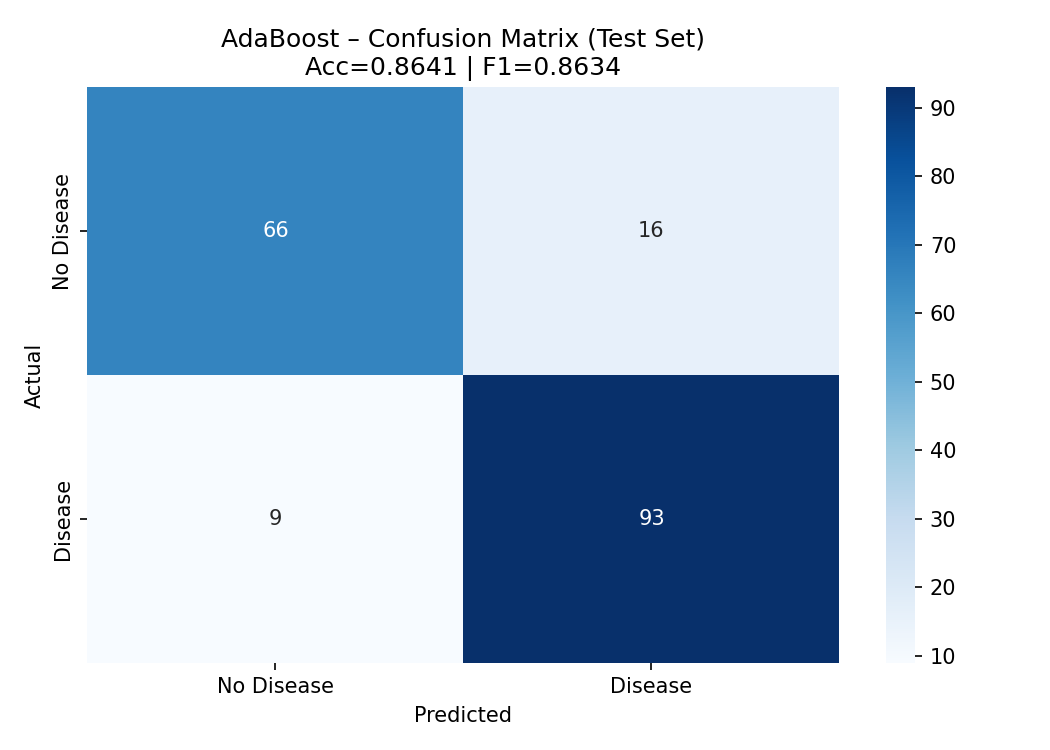
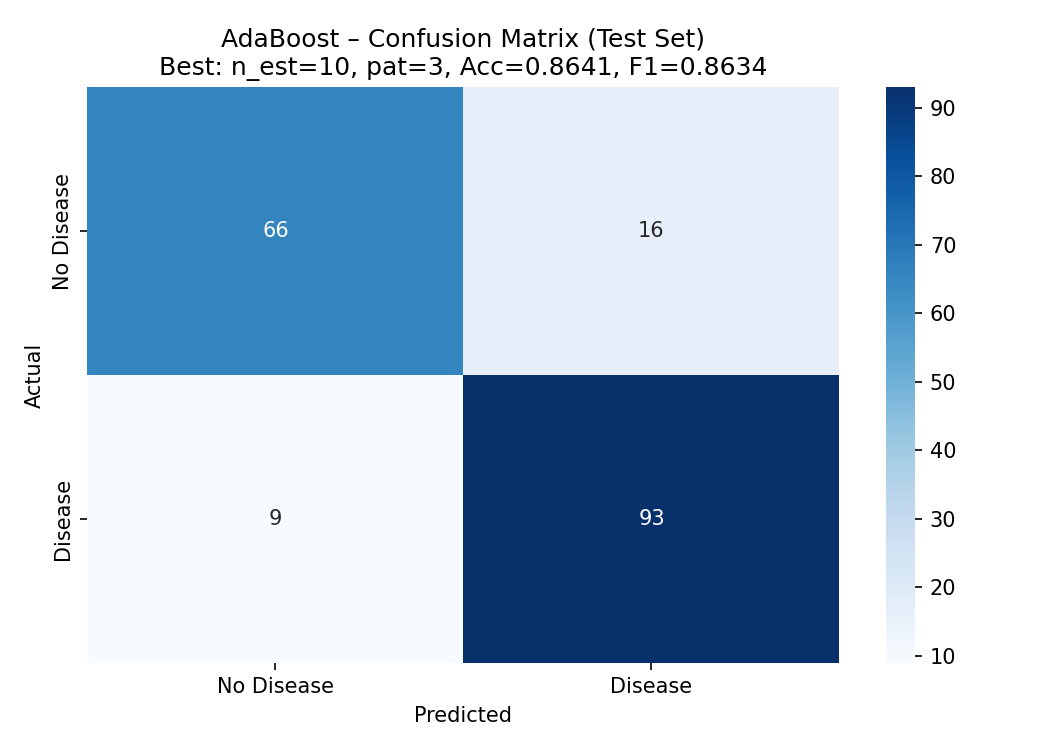
add tunning

Changed region(s): [[0.2438, 0.0613, 0.7314, 0.1227], [0.1524, 0.0613, 0.2133, 0.1227]]

diff --git a/adaBoosting/ADABoosting.py b/adaBoosting/ADABoosting.py
@@ -165,70 +165,125 @@ def evaluate_model(X_data, y_data, weak_learners):
     f1  = f1_score(y_data, y_pred, average='weighted')
     cm  = confusion_matrix(y_data, y_pred)
     return acc, f1, cm
+estimators_list = [10, 20, 30, 40, 50, 60, 70, 80, 90, 100]
+early_stop_patience_list = [3, 5, 7, 10, 15]  # Different early stopping patience values
 
-n_estimators        = 50   # maximum number of boosting rounds 
-early_stop_patience = 5    # stop if val accuracy doesn't improve for this many rounds
-weights = np.ones(len(X_train_scaled), dtype=float) / len(X_train_scaled)
-best_val_acc       = 0.0
-no_improve_count   = 0
-weak_learners      = []      # all accepted stumps so far
-best_weak_learners = []      # snapshot of the best ensemble (chosen on val set)
+tuning_results = {
+    'n_estimators': [],
+    'early_stop_patience': [],
+    'train_acc': [],
+    'val_acc': [],
+    'test_acc': [],
+    'train_f1': [],
+    'val_f1': [],
+    'test_f1': [],
+    'actual_estimators_used': []  # How many estimators were actually used (may be less due to early stopping)
+}
+best_overall_model = None
+best_overall_test_acc = 0.0
+best_n_estimators = None
+best_early_stop_patience = None
 
 y_train_arr = np.asarray(y_train, dtype=int)
 
-for iteration in range(n_estimators):
-    # Find the best stump across all features
-    best_stump = None
-    for col in feature_names:
-        stump = fit_stump(X_train_scaled[col], y_train_arr, weights)
-        stump["feature"] = col
-        if best_stump is None or stump["ig"] > best_stump["ig"]:
-            best_stump = stump
-    # Compute weighted error
-    predictions = stump_prediction(X_train_scaled[best_stump["feature"]], best_stump)
-    misclassified = predictions != y_train_arr
-    error = weights[misclassified].sum()
+total_combinations = len(estimators_list) * len(early_stop_patience_list)
+combination_count = 0
 
-    if error == 0 or error >= 0.5: # can't use this stump (perfect (alpha = inf) or worse than random (alpha < 0))
-        print(f"Iteration {iteration + 1}: skipping stump (error={error:.4f}), stopping.")
-        continue 
-    # Compute alpha
-    alpha = 0.5 * np.log((1 - error) / error)
-    best_stump["alpha"] = alpha
-
-    # Update sample weights 
-    weights[misclassified]  *= np.exp(alpha)    # up-weight wrong samples
-    weights[~misclassified] *= np.exp(-alpha)   # down-weight correct samples
-    weights /= weights.sum()                    # re-normalise
-
-    weak_learners.append(best_stump)
-    print(f"Iteration {iteration + 1}: feature='{best_stump['feature']}' | "
-          f"IG={best_stump['ig']:.4f} | error={error:.4f} | alpha={alpha:.4f}")
-    val_acc, val_f1, _ = evaluate_model(X_val_scaled, y_val, weak_learners)
-    print(f"  → Val Accuracy={val_acc:.4f}, Val F1={val_f1:.4f}")
-
-    if val_acc > best_val_acc:
-        best_val_acc       = val_acc
+for n_est in estimators_list:
+    for patience in early_stop_patience_list:
+        combination_count += 1
+        print(f"\n{'='*80}")
+        print(f"Training combination {combination_count}/{total_combinations}: n_estimators={n_est}, early_stop_patience={patience}")
+        print(f"{'='*80}")
+        
+        n_estimators        = n_est
+        early_stop_patience = patience
+        weights = np.ones(len(X_train_scaled), dtype=float) / len(X_train_scaled)
+        best_val_acc       = 0.0
         no_improve_count   = 0
-        best_weak_learners = list(weak_learners)   # save best snapshot
-    else:
-        no_improve_count += 1
-        if no_improve_count >= early_stop_patience:
-            print(f"\nEarly stopping at iteration {iteration + 1}: "
-                  f"no val improvement for {early_stop_patience} rounds.")
-            break
+        weak_learners      = []
+        best_weak_learners = []
+        actual_estimators_used = 0
 
-print("\n=== Final Evaluation on Test Set ===")
-print(f"Using best ensemble snapshot ({len(best_weak_learners)} stumps, "
-      f"chosen by val accuracy={best_val_acc:.4f})\n")
+        for iteration in range(n_estimators):
+            # Find the best stump across all features
+            best_stump = None
+            for col in feature_names:
+                stump = fit_stump(X_train_scaled[col], y_train_arr, weights)
+                stump["feature"] = col
+                if best_stump is None or stump["ig"] > best_stump["ig"]:
+                    best_stump = stump
+            # Compute weighted error
+            predictions = stump_prediction(X_train_scaled[best_stump["feature"]], best_stump)
+            misclassified = predictions != y_train_arr
+            error = weights[misclassified].sum()
 
-test_acc, test_f1, test_cm = evaluate_model(X_test_scaled, y_test, best_weak_learners)
+            if error == 0 or error >= 0.5:
+                print(f"Iteration {iteration + 1}: skipping stump (error={error:.4f}), stopping.")
+                break 
+            # Compute alpha
+            alpha = 0.5 * np.log((1 - error) / error)
+            best_stump["alpha"] = alpha
+
+            # Update sample weights 
+            weights[misclassified]  *= np.exp(alpha)
+            weights[~misclassified] *= np.exp(-alpha)
+            weights /= weights.sum()
+
+            weak_learners.append(best_stump)
+            actual_estimators_used += 1
+            val_acc, val_f1, _ = evaluate_model(X_val_scaled, y_val, weak_learners)
+
+            if val_acc > best_val_acc:
+                best_val_acc       = val_acc
+                no_improve_count   = 0
+                best_weak_learners = list(weak_learners)
+            else:
+                no_improve_count += 1
+                if no_improve_count >= early_stop_patience:
+                    print(f"Early stopping at iteration {iteration + 1}: no val improvement for {early_stop_patience} rounds.")
+                    break
+        
+        # Evaluate the model with the best validation performance on all sets
+        train_acc, train_f1, _ = evaluate_model(X_train_scaled, y_train, best_weak_learners)
+        val_acc, val_f1, _     = evaluate_model(X_val_scaled, y_val, best_weak_learners)
+        test_acc, test_f1, _   = evaluate_model(X_test_scaled, y_test, best_weak_learners)
+        
+        tuning_results['n_estimators'].append(n_est)
+        tuning_results['early_stop_patience'].append(patience)
+        tuning_results['train_acc'].append(train_acc)
+        tuning_results['val_acc'].append(val_acc)
+        tuning_results['test_acc'].append(test_acc)
+        tuning_results['train_f1'].append(train_f1)
+        tuning_results['val_f1'].append(val_f1)
+        tuning_results['test_f1'].append(test_f1)
+        tuning_results['actual_estimators_used'].append(len(best_weak_learners))
+        
+        print(f"Result: Train Acc={train_acc:.4f} | Val Acc={val_acc:.4f} | Test Acc={test_acc:.4f}")
+        print(f"         Actual estimators used: {len(best_weak_learners)} (early stopped from {n_est})") 
+        # Track the best model
+        if test_acc > best_overall_test_acc:
+            best_overall_test_acc = test_acc
+            best_overall_model = best_weak_learners
+            best_n_estimators = n_est
+            best_early_stop_patience = patience
+
+print(f"\n{'='*80}")
+print(f"BEST MODEL: n_estimators={best_n_estimators}, early_stop_patience={best_early_stop_patience}")
+print(f"Test Accuracy = {best_overall_test_acc:.4f}")
+print(f"{'='*80}\n")
+
+print("=== Final Evaluation on Test Set ===")
+print(f"Using best model with n_estimators={best_n_estimators}, early_stop_patience={best_early_stop_patience}")
+print(f"chosen by test accuracy={best_overall_test_acc:.4f}\n")
+
+test_acc, test_f1, test_cm = evaluate_model(X_test_scaled, y_test, best_overall_model)
 print(f"Test Accuracy : {test_acc:.4f}")
 print(f"Test F1-Score : {test_f1:.4f}")
 print("Confusion Matrix:")
 print(test_cm)
 print("\nClassification Report:")
-print(classification_report(y_test, ada_predict(X_test_scaled, best_weak_learners)))
+print(classification_report(y_test, ada_predict(X_test_scaled, best_overall_model)))
 
 # Most confusing classes
 off_diag = test_cm - np.diag(np.diag(test_cm))
@@ -236,14 +291,110 @@ conf_i, conf_j = np.unravel_index(np.argmax(off_diag), off_diag.shape)
 print(f"Most confusing: Class {conf_i} misclassified as Class {conf_j} "
       f"({off_diag[conf_i, conf_j]} times)")
 
-# Confusion matrix plot
+# Create pivot tables for heatmap visualization
+results_df = pd.DataFrame(tuning_results)
+acc_pivot = results_df.pivot(index='n_estimators', columns='early_stop_patience', values='test_acc')
+f1_pivot = results_df.pivot(index='n_estimators', columns='early_stop_patience', values='test_f1')
+
+fig, axes = plt.subplots(1, 3, figsize=(18, 5))
+
+# Plot 1: Test Accuracy Heatmap
+sns.heatmap(acc_pivot, annot=True, fmt='.4f', cmap='YlOrRd', ax=axes[0], cbar_kws={'label': 'Test Accuracy'})
+axes[0].set_title('AdaBoost: Test Accuracy\n(n_estimators vs early_stop_patience)', fontsize=13, fontweight='bold')
+axes[0].set_xlabel('Early Stop Patience', fontsize=12)
+axes[0].set_ylabel('Max Estimators', fontsize=12)
+
+# Plot 2: Test F1-Score Heatmap
+sns.heatmap(f1_pivot, annot=True, fmt='.4f', cmap='YlOrRd', ax=axes[1], cbar_kws={'label': 'Test F1-Score'})
+axes[1].set_title('AdaBoost: Test F1-Score\n(n_estimators vs early_stop_patience)', fontsize=13, fontweight='bold')
+axes[1].set_xlabel('Early Stop Patience', fontsize=12)
+axes[1].set_ylabel('Max Estimators', fontsize=12)
+
+# Plot 3: Actual Estimators Used Heatmap
+actual_est_pivot = results_df.pivot(index='n_estimators', columns='early_stop_patience', values='actual_estimators_used')
+sns.heatmap(actual_est_pivot, annot=True, fmt='.0f', cmap='Blues', ax=axes[2], cbar_kws={'label': 'Actual Estimators Used'})
+axes[2].set_title('AdaBoost: Actual Estimators Used\n(n_estimators vs early_stop_patience)', fontsize=13, fontweight='bold')
+axes[2].set_xlabel('Early Stop Patience', fontsize=12)
+axes[2].set_ylabel('Max Estimators', fontsize=12)
+
+plt.tight_layout()
+plt.savefig("adaboost_tuning_heatmap.png", dpi=150, bbox_inches='tight')
+print("\nTuning heatmap saved to: adaboost_tuning_heatmap.png")
+plt.show()
+
+# Additional visualization: Line plots for each early_stop_patience value
+fig, axes = plt.subplots(1, 2, figsize=(14, 5))
+
+# Group by early_stop_patience and plot lines
+patience_values = sorted(list(set(tuning_results['early_stop_patience'])))
+colors = plt.cm.tab10(np.linspace(0, 1, len(patience_values)))
+
+for i, patience in enumerate(patience_values):
+    mask = np.array(tuning_results['early_stop_patience']) == patience
+    n_est_subset = np.array(tuning_results['n_estimators'])[mask]
+    test_acc_subset = np.array(tuning_results['test_acc'])[mask]
+    
+    axes[0].plot(n_est_subset, test_acc_subset, 
+                marker='o', label=f'Patience={patience}', 
+                color=colors[i], linewidth=2, markersize=6)
+
+axes[0].axvline(x=best_n_estimators, color='red', linestyle='--', linewidth=2, 
+               label=f'Best: n_est={best_n_estimators}, pat={best_early_stop_patience}')
+axes[0].set_xlabel('Number of Estimators', fontsize=12)
+axes[0].set_ylabel('Test Accuracy', fontsize=12)
+axes[0].set_title('AdaBoost: Test Accuracy vs Estimators\n(by Early Stop Patience)', fontsize=13, fontweight='bold')
+axes[0].legend(fontsize=10)
+axes[0].grid(True, alpha=0.3)
+axes[0].set_xticks(estimators_list)
+
+# F1-Score plot
+for i, patience in enumerate(patience_values):
+    mask = np.array(tuning_results['early_stop_patience']) == patience
+    n_est_subset = np.array(tuning_results['n_estimators'])[mask]
+    test_f1_subset = np.array(tuning_results['test_f1'])[mask]
+    
+    axes[1].plot(n_est_subset, test_f1_subset, 
+                marker='s', label=f'Patience={patience}', 
+                color=colors[i], linewidth=2, markersize=6)
+
+axes[1].axvline(x=best_n_estimators, color='red', linestyle='--', linewidth=2, 
+               label=f'Best: n_est={best_n_estimators}, pat={best_early_stop_patience}')
+axes[1].set_xlabel('Number of Estimators', fontsize=12)
+axes[1].set_ylabel('Test F1-Score', fontsize=12)
+axes[1].set_title('AdaBoost: Test F1-Score vs Estimators\n(by Early Stop Patience)', fontsize=13, fontweight='bold')
+axes[1].legend(fontsize=10)
+axes[1].grid(True, alpha=0.3)
+axes[1].set_xticks(estimators_list)
+
+plt.tight_layout()
+plt.savefig("adaboost_tuning_lines.png", dpi=150, bbox_inches='tight')
+print("Tuning line plots saved to: adaboost_tuning_lines.png")
+plt.show()
+
+# Confusion matrix plot for the best model
 plt.figure(figsize=(7, 5))
 sns.heatmap(test_cm, annot=True, fmt='d', cmap='Blues',
             xticklabels=["No Disease", "Disease"],
             yticklabels=["No Disease", "Disease"])
-plt.title(f'AdaBoost – Confusion Matrix (Test Set)\nAcc={test_acc:.4f} | F1={test_f1:.4f}')
+plt.title(f'AdaBoost – Confusion Matrix (Test Set)\nBest: n_est={best_n_estimators}, pat={best_early_stop_patience}, Acc={test_acc:.4f}, F1={test_f1:.4f}')
 plt.xlabel('Predicted')
 plt.ylabel('Actual')
 plt.tight_layout()
 plt.savefig("adaboost_confusion_matrix.png", dpi=150)
+print("Confusion matrix saved to: adaboost_confusion_matrix.png")
 plt.show()
+
+# Print tuning summary table
+print("\n" + "="*100)
+print("TUNING SUMMARY (Grid Search Results)")
+print("="*100)
+summary_df = pd.DataFrame(tuning_results)
+summary_df = summary_df.sort_values(['test_acc', 'test_f1'], ascending=[False, False])
+print(summary_df.to_string(index=False))
+print("="*100)
+print(f"\nBEST CONFIGURATION:")
+print(f"  n_estimators: {best_n_estimators}")
+print(f"  early_stop_patience: {best_early_stop_patience}")
+print(f"  Test Accuracy: {best_overall_test_acc:.4f}")
+print(f"  Actual estimators used: {len(best_overall_model)}")
+print("="*100)
